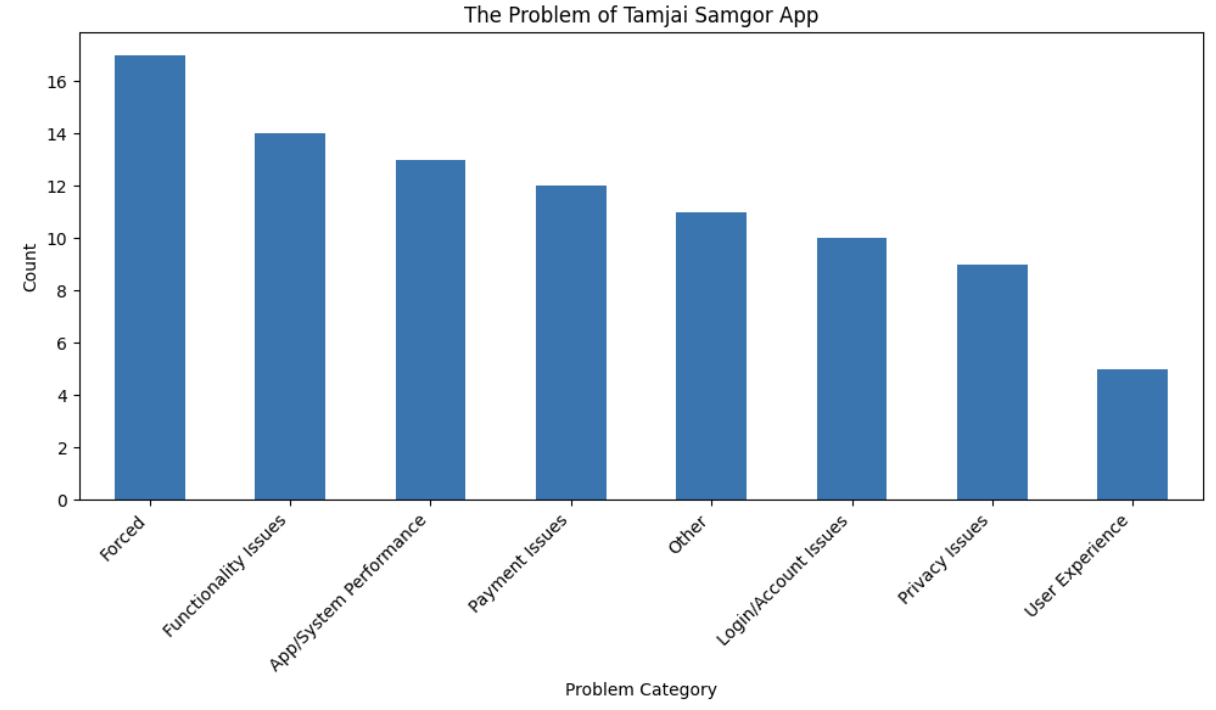
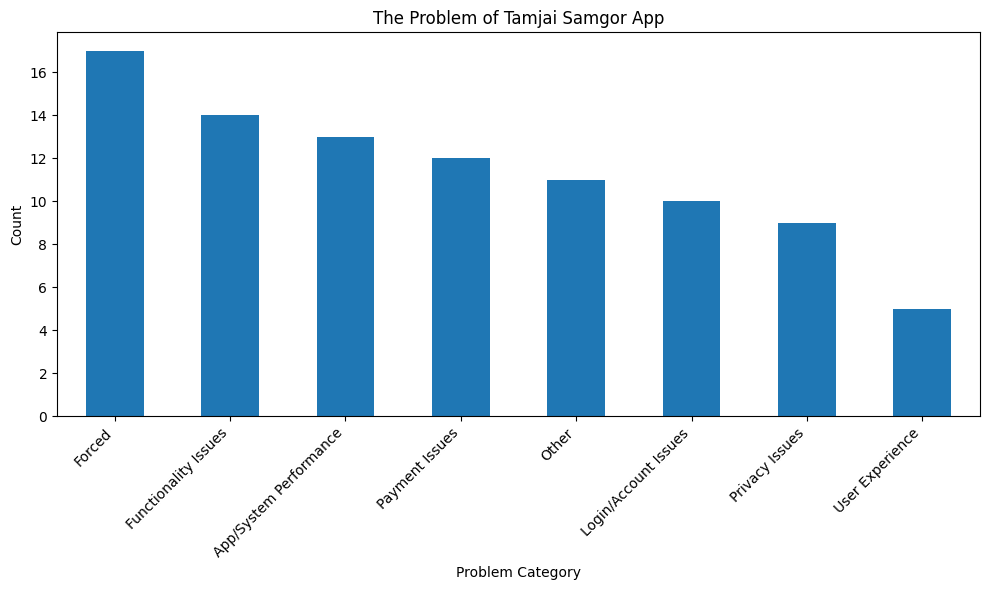
Moving Files

diff --git a/README.md b/README.md
@@ -13,10 +13,10 @@ This is a group project to evaluate the current problems of TamJai's loyalty pro
 * Check the accuracy of the classification result and relabel the problem categories manually. 
 
 ## Tamjai's App Ratings
-![](image/Ratings.png)
+![](image/Tamjai/Ratings.png)
 
 ## Existing Problems of the Loyalty Program
-![](image/ProblemCategories.png)
+![](image/Tamjai/ProblemCategories.png)
 
 # [Flight Infomation Database Creation & Management]()
 # [HK Flag Day Volunteer Allocation System]()
